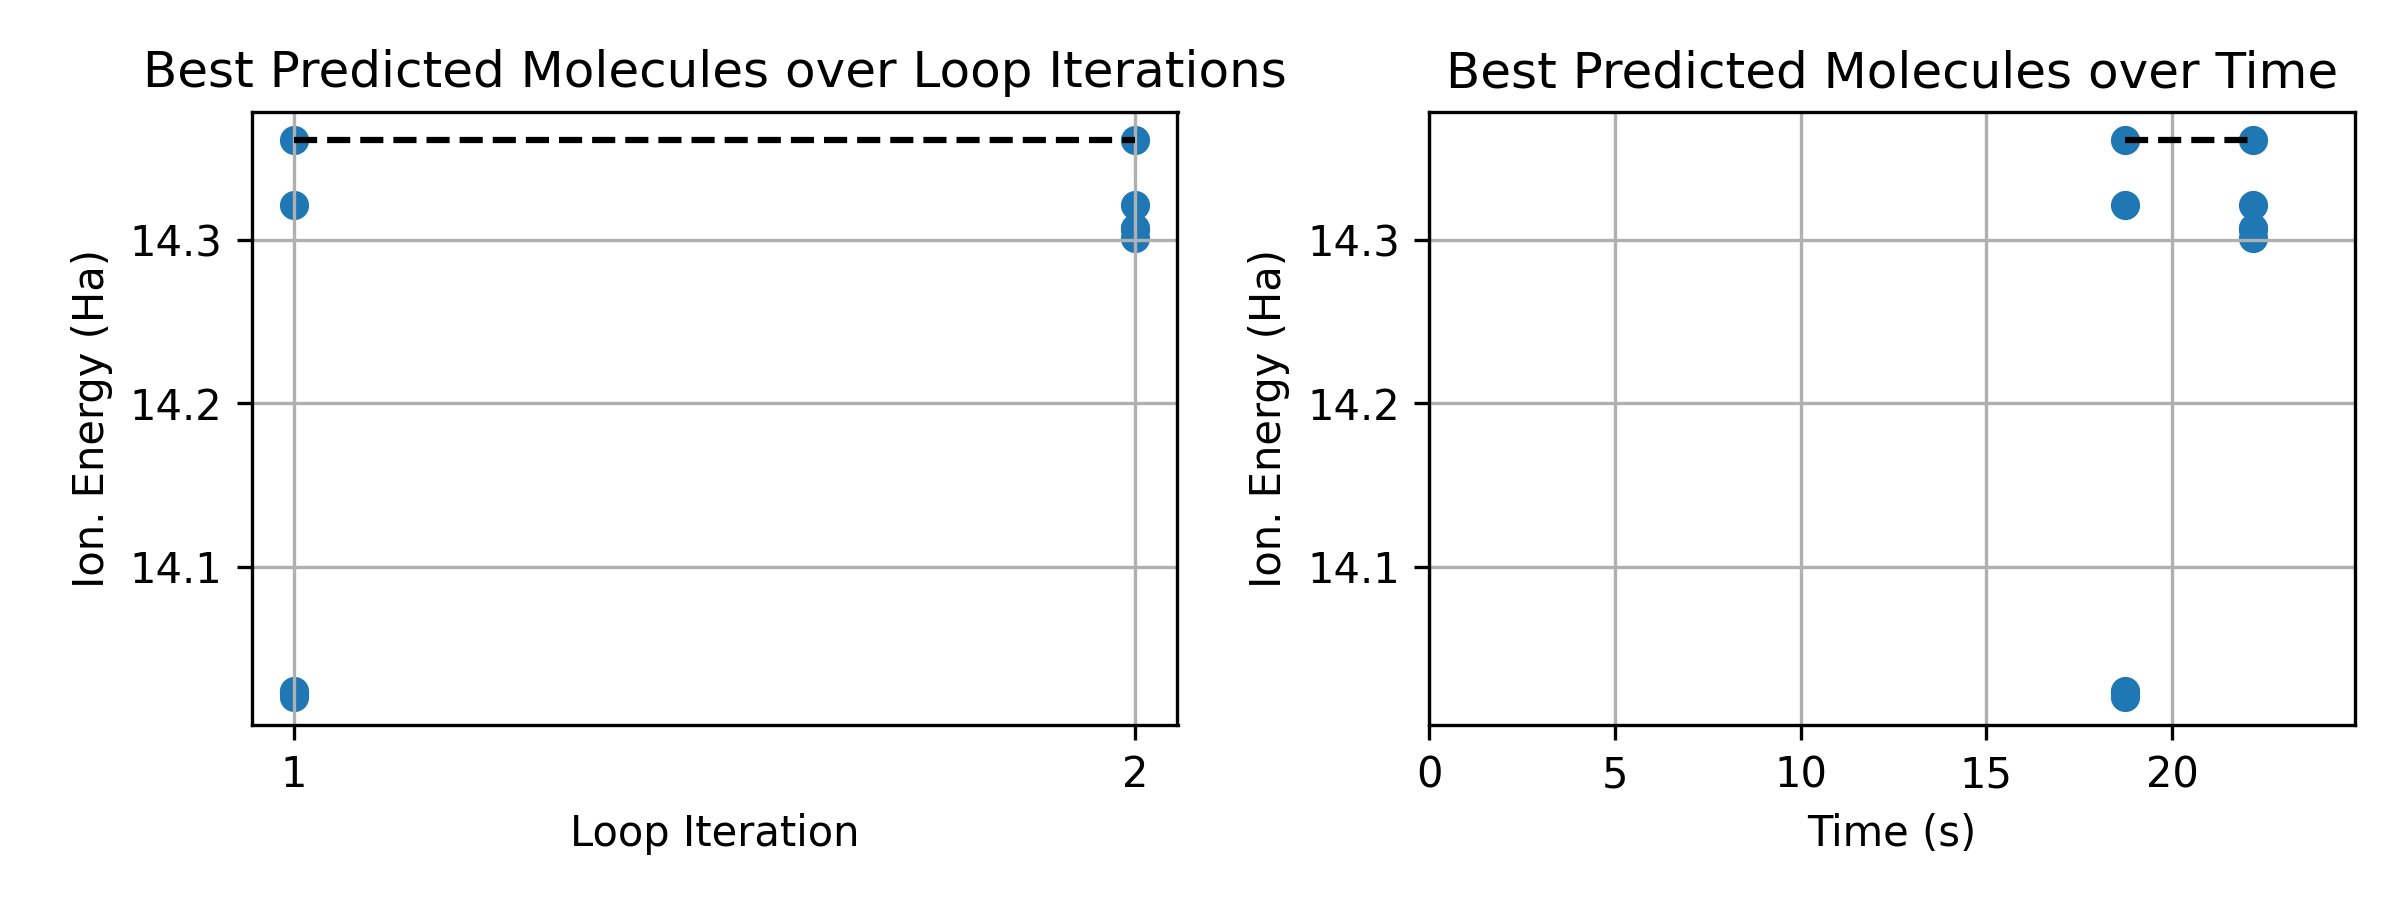
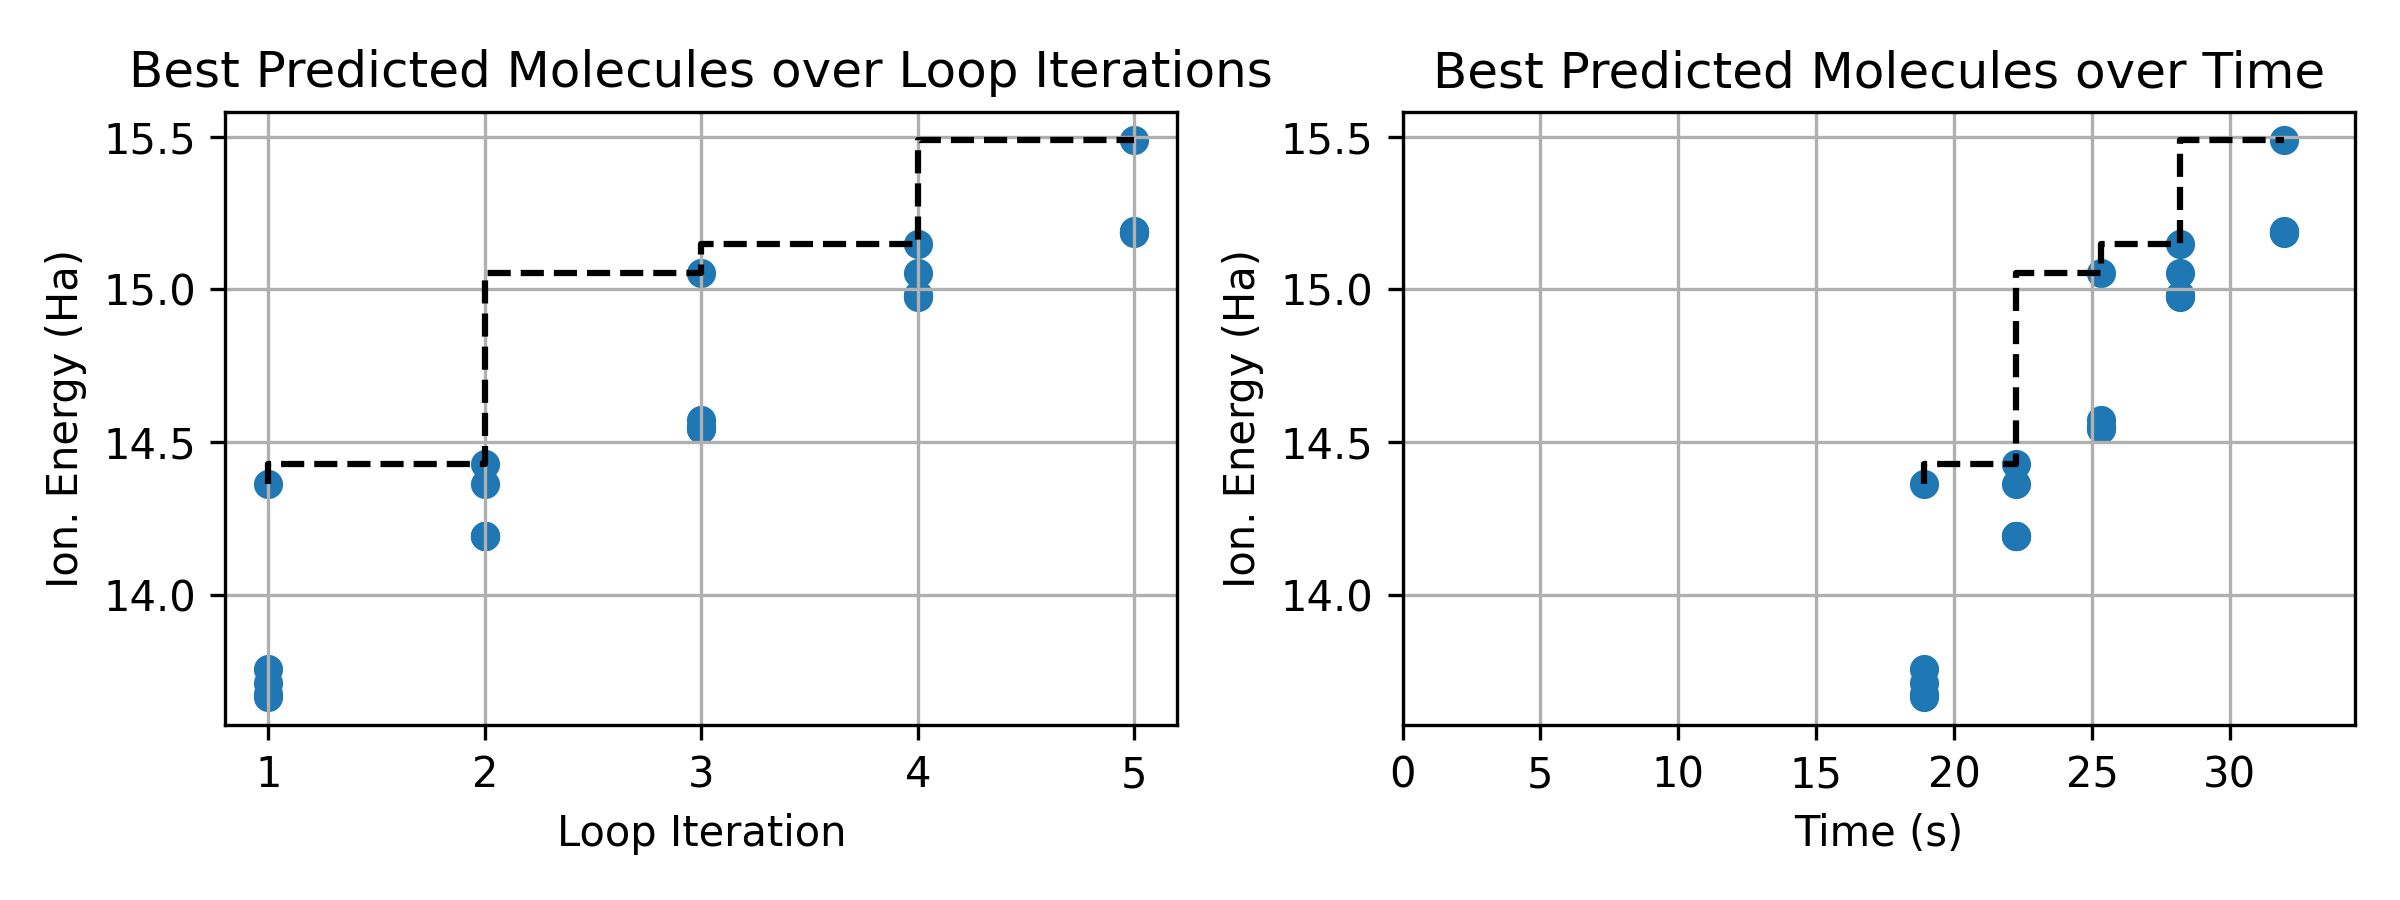
4 44 8

diff --git a/03-Coupling-Sim-AI/ml-in-the-loop/3_ml_in_the_loop.py b/03-Coupling-Sim-AI/ml-in-the-loop/3_ml_in_the_loop.py
@@ -26,9 +26,9 @@ np.random.seed(seed)
 random.seed(seed)
 
 # Define parameters for the workflow
-initial_training_count = 8  # Number of trianing samples to collect for first model training
-max_training_count = 24  # Maximum number of training samples to collect for training
-batch_size = 4  # Number of molecules to simulate in each iteration of active learning loop
+initial_training_count = 4  # Number of trianing samples to collect for first model training
+max_training_count = 44  # Maximum number of training samples to collect for training
+batch_size = 8  # Number of molecules to simulate in each iteration of active learning loop
 if initial_training_count >= max_training_count:
     print("Must do at least 1 active trianing iteration.")
     print("Change the values of initial_training_count and/or max_training_count and try again.")
